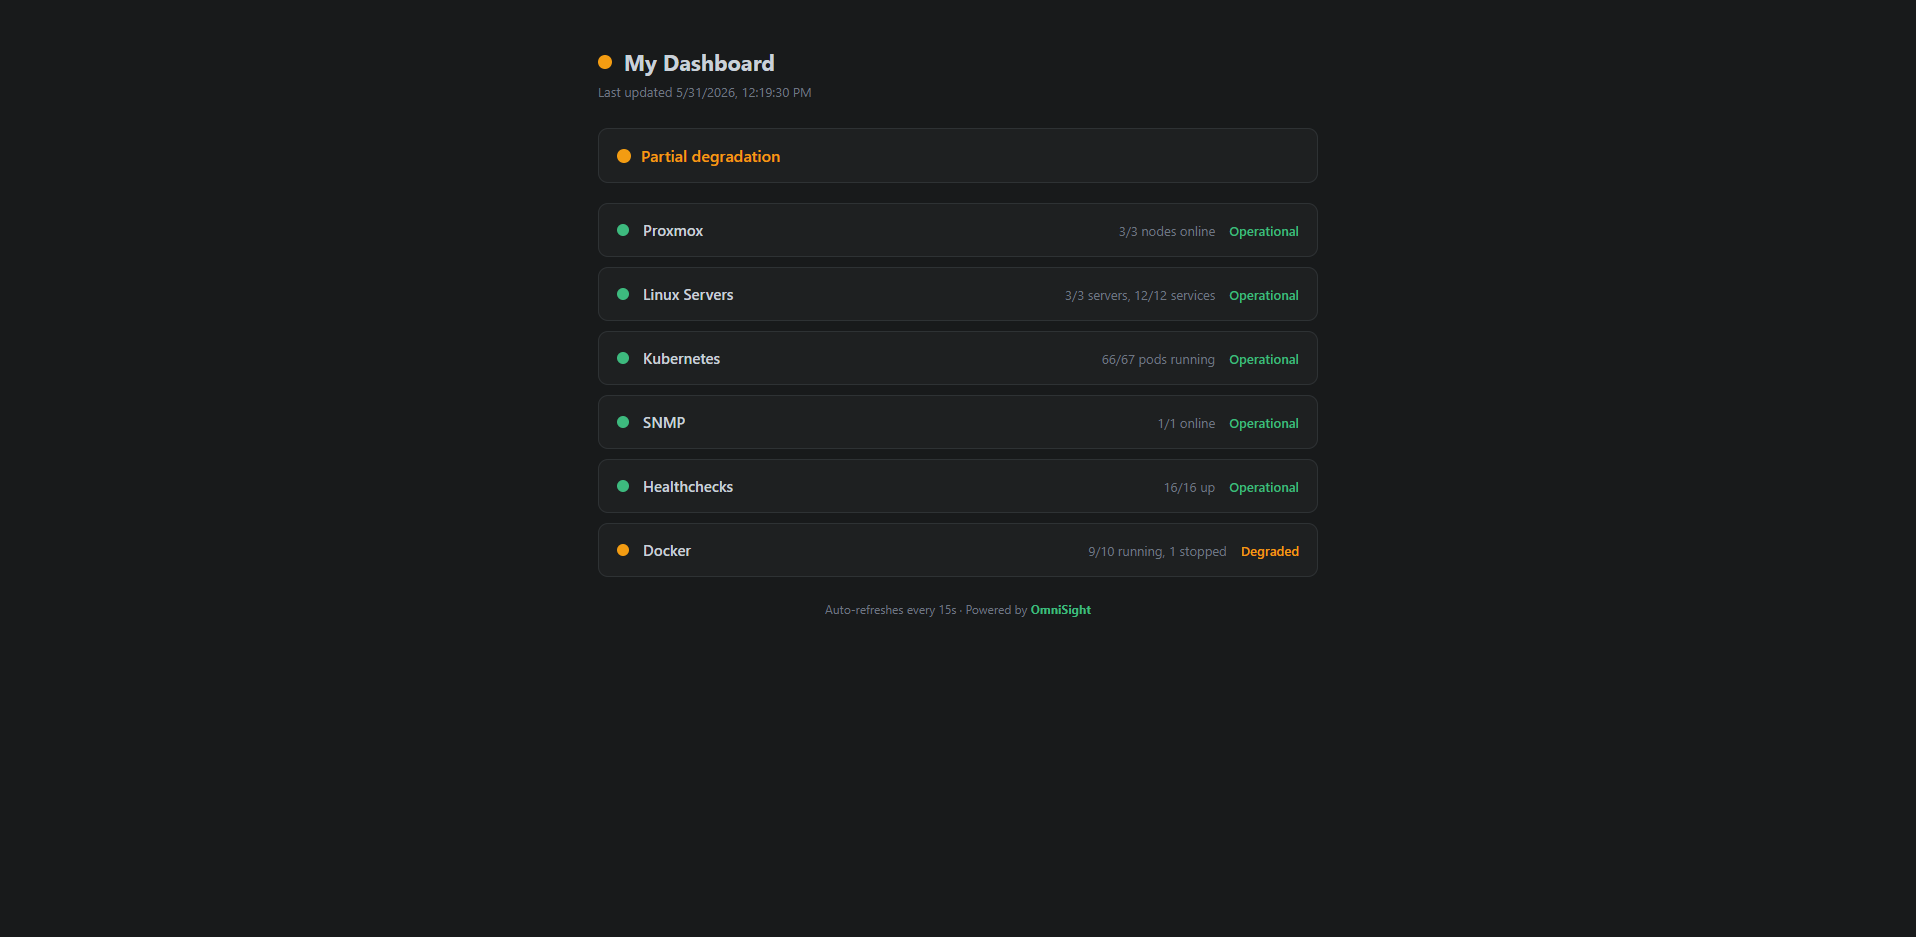
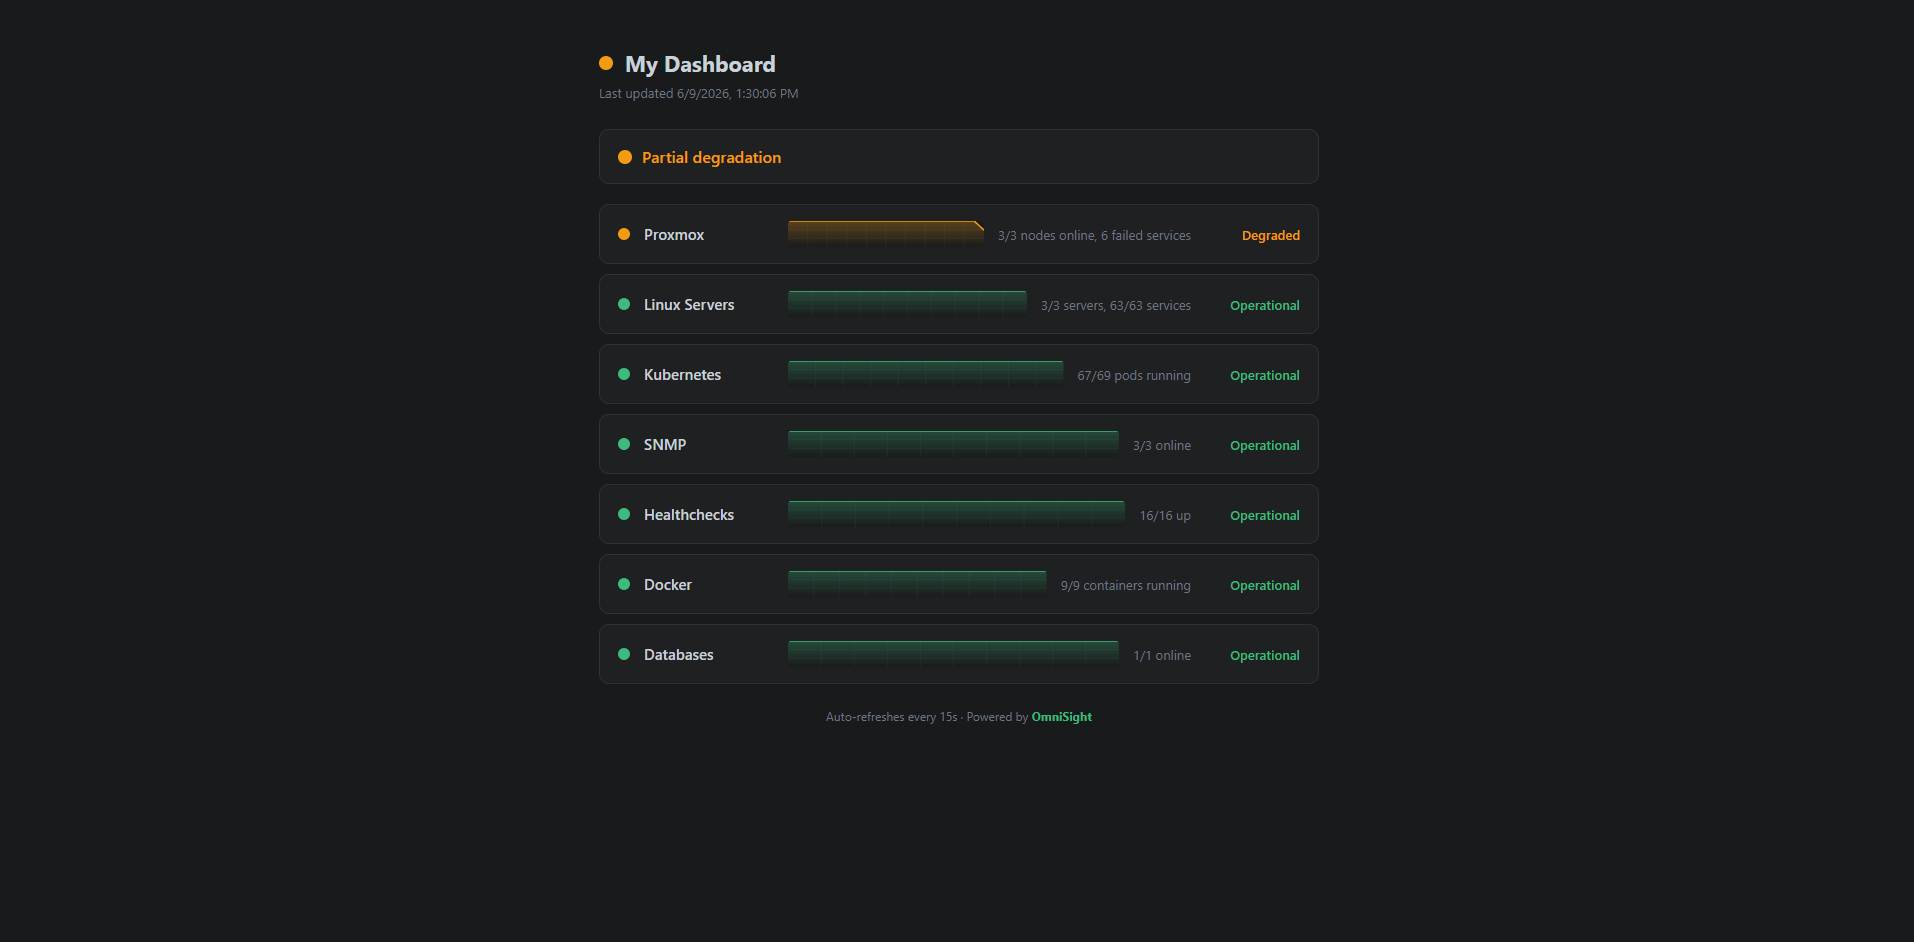
v0.7.7
- changed history graphs
- the history graphs has been added to the public page

diff --git a/public/index.html b/public/index.html
@@ -475,25 +475,47 @@ function applyConfigured(ids, cfg){
 }
 
 function histChart(data, key, pct) {
-  const W=300, H=50, clr=bchex(pct);
-  const empty = `<svg class="hist-svg" viewBox="0 0 ${W} ${H}" preserveAspectRatio="none"><rect width="${W}" height="${H}" fill="rgba(255,255,255,.03)" rx="3"/><line x1="0" y1="${H}" x2="${W}" y2="${H}" stroke="${clr}" stroke-width="1" stroke-opacity=".3"/></svg>`;
-  if (!data||data.length<2) return empty;
-  const vals = data.slice(-80).map(d=>Math.min(100,Math.max(0,Number(d[key])||0)));
-  if (vals.length<2) return empty;
-  const n=vals.length;
-  const xStep = W/(n-1);
-  const pts=vals.map((v,i)=>[i*xStep, H - (v/100)*H]);
-  const line=pts.map((p,i)=>`${i?'L':'M'}${p[0].toFixed(2)},${p[1].toFixed(2)}`).join('');
-  const area=`${line}L${W.toFixed(2)},${H}L0,${H}Z`;
-  const gid=`hg${Math.random().toString(36).slice(2,7)}`;
+  const W = 300, H = 50, clr = bchex(pct);
+  const empty = `<svg class="hist-svg" viewBox="0 0 ${W} ${H}" preserveAspectRatio="none"><rect width="${W}" height="${H}" class="hist-bg" rx="3"/><line x1="0" y1="${H}" x2="${W}" y2="${H}" stroke="${clr}" stroke-width="1.5" stroke-opacity=".3"/></svg>`;
+  
+  if (!data || data.length < 2) return empty;
+  const vals = data.slice(-80).map(d => Math.min(100, Math.max(0, Number(d[key]) || 0)));
+  if (vals.length < 2) return empty;
+  
+  let minV = Math.min(...vals);
+  let maxV = Math.max(...vals);
+  if (maxV - minV < 5) {
+    minV = Math.max(0, minV - 5);
+    maxV = Math.min(100, maxV + 5);
+  } else {
+    const pad = (maxV - minV) * 0.2;
+    minV = Math.max(0, minV - pad);
+    maxV = Math.min(100, maxV + pad);
+  }
+  const range = maxV - minV || 1;
+  
+  const n = vals.length;
+  const xStep = W / (n - 1);
+  const pts = vals.map((v, i) => [i * xStep, H - ((v - minV) / range) * H]);
+  const line = pts.map((p, i) => `${i ? 'L' : 'M'}${p[0].toFixed(2)},${p[1].toFixed(2)}`).join('');
+  const area = `${line}L${W.toFixed(2)},${H}L0,${H}Z`;
+  const gid = 'hg' + Math.random().toString(36).slice(2, 7);
+  
+  let gridPath = '';
+  for (let i = 1; i < 4; i++) gridPath += `M0,${i * 12.5} L${W},${i * 12.5} `;
+  for (let i = 1; i < 10; i++) gridPath += `M${i * 30},0 L${i * 30},${H} `;
+  
   return `<svg class="hist-svg" viewBox="0 0 ${W} ${H}" preserveAspectRatio="none">
-    <defs><linearGradient id="${gid}" x1="0" y1="0" x2="0" y2="1">
-      <stop offset="0%" stop-color="${clr}" stop-opacity=".45"/>
-      <stop offset="100%" stop-color="${clr}" stop-opacity=".03"/>
-    </linearGradient></defs>
+    <defs>
+      <linearGradient id="${gid}" x1="0" y1="0" x2="0" y2="1">
+        <stop offset="0%" stop-color="${clr}" stop-opacity="0.35"/>
+        <stop offset="100%" stop-color="${clr}" stop-opacity="0.0"/>
+      </linearGradient>
+    </defs>
     <rect width="${W}" height="${H}" class="hist-bg" rx="3"/>
+    <path d="${gridPath}" stroke="var(--text)" stroke-width="1" opacity="0.07" vector-effect="non-scaling-stroke" />
     <path d="${area}" fill="url(#${gid})"/>
-    <path d="${line}" fill="none" stroke="${clr}" stroke-width="1.5" stroke-linejoin="round" stroke-linecap="round"/>
+    <path d="${line}" fill="none" stroke="${clr}" stroke-width="1" stroke-linejoin="round" stroke-linecap="round" vector-effect="non-scaling-stroke"/>
   </svg>`;
 }
 

diff --git a/public/status.html b/public/status.html
@@ -20,9 +20,12 @@ h1{font-size:22px;font-weight:700}
 .overall{display:flex;align-items:center;gap:10px;background:var(--panel);border:1px solid var(--border);border-radius:10px;padding:16px 18px;margin-bottom:20px;font-size:16px;font-weight:600}
 .overall .dot{width:14px;height:14px;border-radius:50%}
 .svc{display:flex;align-items:center;gap:14px;background:var(--panel);border:1px solid var(--border);border-radius:10px;padding:16px 18px;margin-bottom:10px}
+.svc{display:flex;align-items:center;gap:14px;background:var(--panel);border:1px solid var(--border);border-radius:10px;padding:16px 18px;margin-bottom:10px}
 .svc .dot{width:12px;height:12px;border-radius:50%;flex-shrink:0}
-.svc .name{font-size:15px;font-weight:600;flex:1}
+.svc .name{font-size:15px;font-weight:600;width:130px;flex-shrink:0}
+.svc .chart{flex:1;height:26px;background:rgba(0,0,0,0.15);border-radius:3px;overflow:hidden}
 .svc .meta{font-size:13px;color:var(--muted)}
+.svc .status-lbl{font-size:13px;font-weight:600;width:95px;text-align:right;flex-shrink:0}
 .d-ok{background:var(--green)}.d-warn{background:var(--yellow)}.d-down{background:var(--red)}.d-gray{background:var(--muted)}
 .t-ok{color:var(--green)}.t-warn{color:var(--yellow)}.t-down{color:var(--red)}
 .foot{text-align:center;color:var(--muted);font-size:12px;margin-top:24px}
@@ -38,6 +41,32 @@ h1{font-size:22px;font-weight:700}
   <div class="foot">Auto-refreshes every 15s · Powered by <a href="https://github.com/caglaryalcin/OmniSight" target="_blank" rel="noopener" style="color:var(--green);text-decoration:none;font-weight:700">OmniSight</a></div>
 </div>
 <script>
+function genChart(data, status) {
+  const W = 300, H = 26;
+  const clr = status === 'ok' ? '#3dba7e' : status === 'warn' ? '#f39c12' : status === 'down' ? '#e74c3c' : '#6E7681';
+  if (!data || data.length < 2) return '';
+  const vals = data.map(d => Math.min(100, Math.max(0, Number(d.health) || 0)));
+  const n = vals.length;
+  const xStep = W / (n - 1);
+  const pts = vals.map((v, i) => [i * xStep, H - (v / 100) * H]);
+  const line = pts.map((p, i) => `${i ? 'L' : 'M'}${p[0].toFixed(2)},${p[1].toFixed(2)}`).join('');
+  const area = `${line}L${W.toFixed(2)},${H}L0,${H}Z`;
+  const gid = 'hg-' + Math.random().toString(36).slice(2, 7);
+  let gridPath = '';
+  for (let i = 1; i < 3; i++) gridPath += `M0,${i * 8.66} L${W},${i * 8.66} `;
+  for (let i = 1; i < 10; i++) gridPath += `M${i * 30},0 L${i * 30},${H} `;
+  return `<svg viewBox="0 0 ${W} ${H}" preserveAspectRatio="none" style="width:100%;height:100%;display:block;">
+    <defs>
+      <linearGradient id="${gid}" x1="0" y1="0" x2="0" y2="1">
+        <stop offset="0%" stop-color="${clr}" stop-opacity="0.3"/>
+        <stop offset="100%" stop-color="${clr}" stop-opacity="0.0"/>
+      </linearGradient>
+    </defs>
+    <path d="${gridPath}" stroke="var(--border)" stroke-width="1" opacity="0.4" vector-effect="non-scaling-stroke" />
+    <path d="${area}" fill="url(#${gid})"/>
+    <path d="${line}" fill="none" stroke="${clr}" stroke-width="1.5" stroke-linejoin="round" stroke-linecap="round" vector-effect="non-scaling-stroke"/>
+  </svg>`;
+}
 const dotCls = s => s === 'ok' ? 'd-ok' : s === 'warn' ? 'd-warn' : s === 'down' ? 'd-down' : 'd-gray';
 const txtCls = s => s === 'ok' ? 't-ok' : s === 'warn' ? 't-warn' : s === 'down' ? 't-down' : '';
 const label  = s => s === 'ok' ? 'Operational' : s === 'warn' ? 'Degraded' : s === 'down' ? 'Down' : s === 'connecting' ? 'Connecting…' : 'Unknown';
@@ -61,8 +90,9 @@ async function load() {
     document.getElementById('list').innerHTML = svcs.length ? svcs.map(s =>
       '<div class="svc"><span class="dot ' + dotCls(s.status) + '"></span>' +
       '<span class="name">' + s.title + '</span>' +
+      '<div class="chart">' + genChart(s.history, s.status) + '</div>' +
       '<span class="meta">' + s.meta + '</span>' +
-      '<span class="' + txtCls(s.status) + '" style="font-size:13px;font-weight:600">' + label(s.status) + '</span></div>'
+      '<span class="status-lbl ' + txtCls(s.status) + '">' + label(s.status) + '</span></div>'
     ).join('') : '<div class="empty">No services configured</div>';
     _fast = !!d.refreshing || svcs.some(s => s.status === 'connecting');
   } catch (e) {

diff --git a/server.js b/server.js
@@ -180,6 +180,8 @@ let config = loadConfig();
 let cache = { data: null };
 let refreshPromise = null;
 
+const PLATFORM_HISTORY = {};
+
 function assignStatic(base) {
   base.publicStatus = !!config.publicStatus;
   base.configured = configuredList();
@@ -295,7 +297,20 @@ function backgroundRefresh() {
      .catch(() => { base[key] = fb; })
   );
   refreshPromise = Promise.allSettled(ps)
-    .then(() => { base.loading = false; base.timestamp = new Date().toISOString(); runAlertChecks(base); })
+    .then(() => { 
+      base.loading = false; 
+      base.timestamp = new Date().toISOString(); 
+      runAlertChecks(base); 
+      const svcs = buildPublicSummary(base);
+      svcs.forEach(s => {
+        if (!PLATFORM_HISTORY[s.id]) PLATFORM_HISTORY[s.id] = Array(20).fill(null).map(() => ({ health: 100 }));
+        let score = 100;
+        if (s.status === 'down') score = 0;
+        else if (s.status === 'warn') score = 65;
+        PLATFORM_HISTORY[s.id].push({ health: score });
+        if (PLATFORM_HISTORY[s.id].length > 80) PLATFORM_HISTORY[s.id].shift();
+      });
+    })
     .catch(err => { console.error(err.message); })
     .finally(() => { refreshPromise = null; });
   return refreshPromise;
@@ -737,6 +752,11 @@ app.get('/api/public/status', (req, res) => {
   const titles = { proxmox: 'Proxmox', linux: 'Linux Servers', kubernetes: 'Kubernetes', snmp: 'SNMP', healthchecks: 'Healthchecks', docker: 'Docker', database: 'Databases' };
   (data.configured || configuredList()).forEach(id => {
     if (!present.has(id)) services.push({ id, title: titles[id] || id, status: 'connecting', meta: 'connecting…' });
+  });
+  services.forEach(s => { 
+    s.history = (PLATFORM_HISTORY[s.id] && PLATFORM_HISTORY[s.id].length) 
+      ? PLATFORM_HISTORY[s.id] 
+      : Array(20).fill(null).map(() => ({ health: 100 })); 
   });
   res.json({
     title: config.publicTitle || 'OmniSight Status',